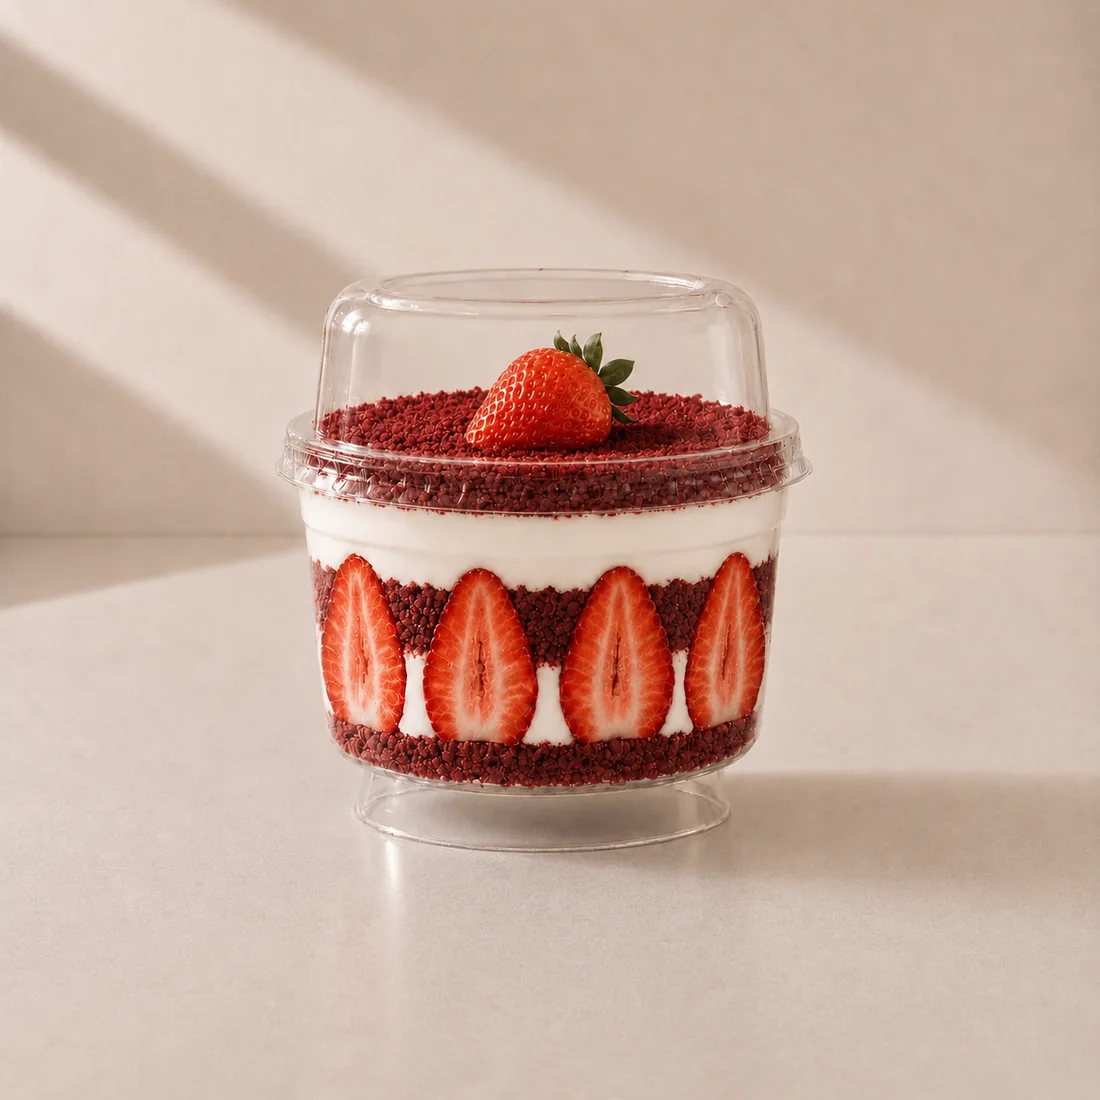
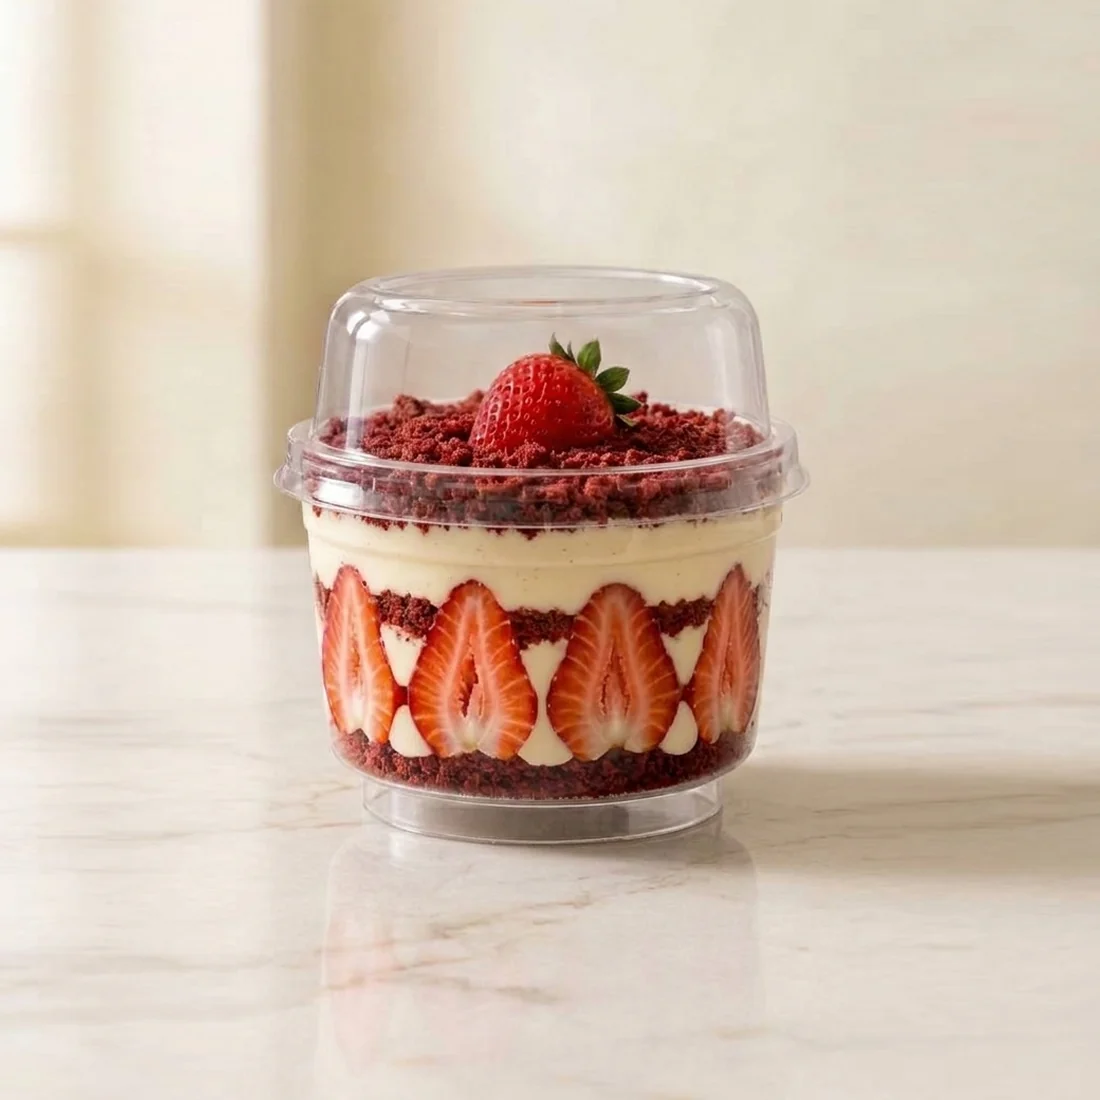
Çilekli Red Velvet Magnolya görsellerini yenile
Açık mermer zeminde, Çilekli düzeninde red velvet kek kırığıyla; katman
noktaları yeni görsellere göre.

diff --git a/src/data/layers.ts b/src/data/layers.ts
@@ -88,8 +88,8 @@ const seeds: Seed[] = [
     slug: 'cilekli-red-velvet-magnolya',
     names: ['Red velvet kırığı', 'Magnolya kreması', 'Taze çilek', 'Red velvet taban'],
     colors: [RV, C, S, RV],
-    cup: { x: 72, y: [40, 47, 58, 69] },
-    jar: { x: 71, y: [46, 54, 64, 75] },
+    cup: { x: 71, y: [45, 50.5, 61, 71] },
+    jar: { x: 71, y: [50, 56, 67, 76] },
   },
   /* --- 2. grup: menünün geri kalanı. Aynı yöntemle ölçüldü; cup kenarı 72,
          kavanoz kenarı fotoğraftan (çoğunlukla 74) --- */
